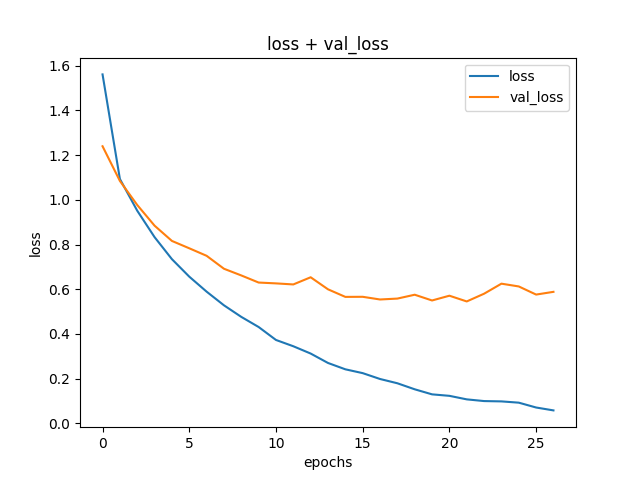
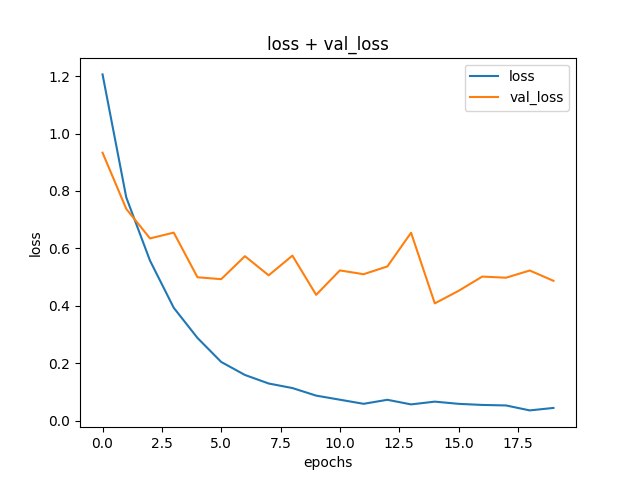
batch_size=60

diff --git a/createModelMFCC.py b/createModelMFCC.py
@@ -6,6 +6,7 @@ import tensorflow as tf
 import os
 import csv
 
+from keras.legacy_tf_layers.normalization import BatchNormalization
 from matplotlib import pyplot as plt
 # Preprocessing
 from sklearn.model_selection import train_test_split
@@ -42,34 +43,32 @@ X_train, X_test, y_train, y_test = train_test_split(X, y, test_size=0.1)
 model = models.Sequential()
 
 model.add(layers.Dense(256, activation='relu', input_shape=(X_train.shape[1],)))
-layers.Dropout(rate=0.1),
+layers.Dropout(rate=0.3),  # apply 30% dropout to the next layer
 
 model.add(layers.Dense(1028, activation='relu'))
-layers.Dropout(rate=0.1),  # apply 30% dropout to the next layer
+layers.Dropout(rate=0.3),
 
 model.add(layers.Dense(512, activation='relu'))
-layers.Dropout(rate=0.2),
+layers.Dropout(rate=0.3),
 
 model.add(layers.Dense(512, activation='relu'))
-layers.Dropout(rate=0.2),
+layers.Dropout(rate=0.3),
 
 model.add(layers.Dense(256, activation='relu'))
-layers.Dropout(rate=0.4),
+layers.Dropout(rate=0.3),
 
 model.add(layers.Dense(128, activation='relu'))
-layers.Dropout(rate=0.5),
+layers.Dropout(rate=0.3),
 
 model.add(layers.Dense(10, activation='softmax'))
-
-
 
 model.compile(optimizer='adam',
               loss='sparse_categorical_crossentropy',
               metrics=['accuracy'])
 
 early_stopping = callbacks.EarlyStopping(
-    min_delta=0.002, # minimium amount of change to count as an improvement
-    patience=5, # how many epochs to wait before stopping
+    min_delta=0.002,  # minimium amount of change to count as an improvement
+    patience=5,  # how many epochs to wait before stopping
     restore_best_weights=True,
 )
 
@@ -78,11 +77,11 @@ history = model.fit(X_train,
                     validation_data=(X_test, y_test),
                     epochs=200,
                     callbacks=[early_stopping],
-                    batch_size=30)
+                    batch_size=60)
 
 # calculate accuracy
 test_loss, test_acc = model.evaluate(X_test, y_test)
-# testen !!!!!!!!!!!!!!!!!!!!!!!!!!!!!!!!!!!!!!!!!!!!!!!!!!!!!!!!!!!!!!!!!!!!!!!!!!!!!!!!!!!!!!!!!!!!!!!!!!!!!!!!!!!!
+# testen !
 # exportModel = model.save()
 print('test_acc: ', test_acc)
 
